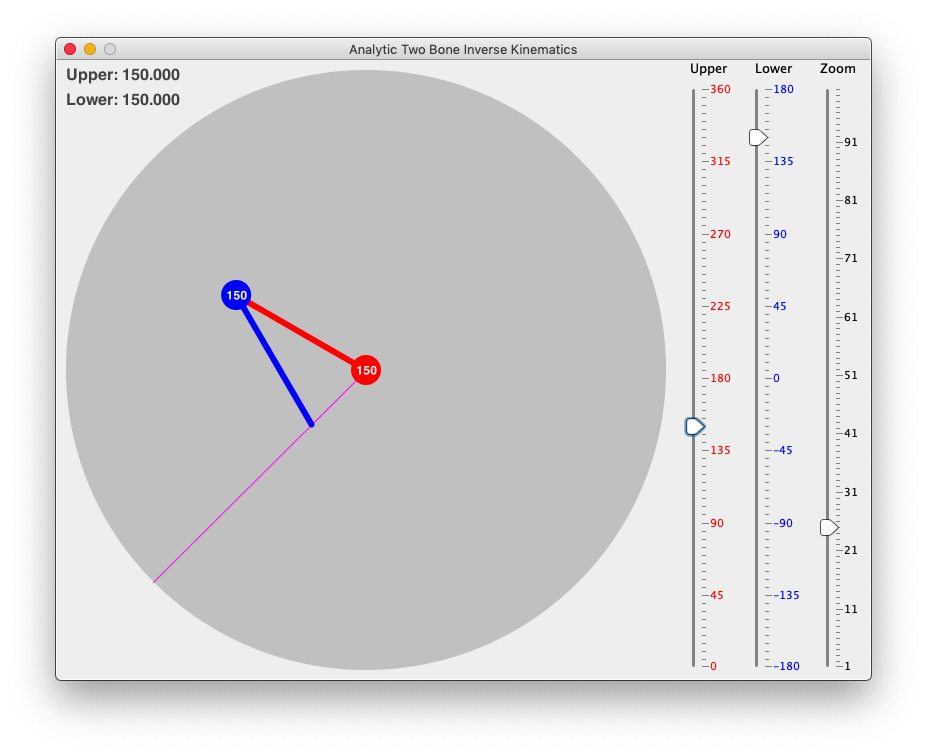
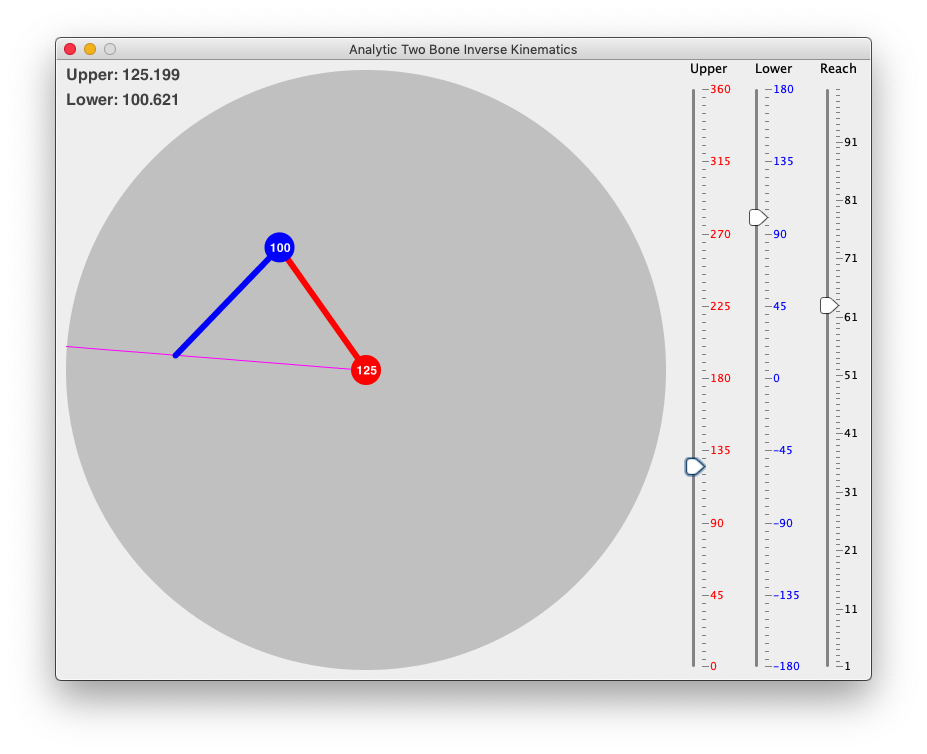
Rename Zoom to Reach

diff --git a/src/ComputeIK.java b/src/ComputeIK.java
@@ -22,8 +22,8 @@ public class ComputeIK extends JPanel {
   private final Bone              upper;              // Upper arm
   private final Bone              lower;              // Lower Arm
   private final double            armLength;
-  private       JSlider           zoom;
-  private       boolean           mouseDown, zooming, noZoom;
+  private       JSlider           reach;
+  private       boolean           mouseDown, reaching, noReach;
 
   private boolean updateIk (Point2D target) {
     double targetX = target.getX();
@@ -99,7 +99,7 @@ public class ComputeIK extends JPanel {
       slider.setPaintLabels(true);
       slider.setSnapToTicks(true);
       slider.addChangeListener(ev -> {
-        if (!mouseDown && !zooming) {
+        if (!mouseDown && !reaching) {
           setAngle(slider.getValue());
           updateZoomSlider();
           view.repaint();
@@ -180,14 +180,14 @@ public class ComputeIK extends JPanel {
   }
 
   void updateZoomSlider () {
-    noZoom = true;
+    noReach = true;
     Point2D end = upper.getEndOffset();
     end = end.add(lower.getEndOffset());
     double value = end.magnitude();
     value /= armLength;
     value *= 100;
-    zoom.setValue((int) value);
-    noZoom = false;
+    reach.setValue((int) value);
+    noReach = false;
   }
 
   ComputeIK () {
@@ -225,24 +225,24 @@ public class ComputeIK extends JPanel {
   }
 
   JSlider getZoomSlider () {
-    zoom = new JSlider(JSlider.VERTICAL, 1, 100, 50);
-    zoom.setForeground(Color.BLACK);
-    zoom.setMajorTickSpacing(10);
-    zoom.setMinorTickSpacing(1);
-    zoom.setPaintTicks(true);
-    zoom.setPaintLabels(true);
-    zoom.addChangeListener(ev -> {
-      if (!mouseDown && !noZoom) {
-        zooming = true;
-        int value = zoom.getValue();
+    reach = new JSlider(JSlider.VERTICAL, 1, 100, 50);
+    reach.setForeground(Color.BLACK);
+    reach.setMajorTickSpacing(10);
+    reach.setMinorTickSpacing(1);
+    reach.setPaintTicks(true);
+    reach.setPaintLabels(true);
+    reach.addChangeListener(ev -> {
+      if (!mouseDown && !noReach) {
+        reaching = true;
+        int value = reach.getValue();
         Point2D end = getEndPoint();
         end = end.multiply(((double) value / 100d));
         updateIk(end);
-        zooming = false;
+        reaching = false;
         repaint();
       }
     });
-    return zoom;
+    return reach;
   }
 
   private static JPanel addLegend (JComponent comp, String legend) {
@@ -261,7 +261,7 @@ public class ComputeIK extends JPanel {
     JSlider j2 = view.lower.getSlider(view, -180, 180);
     controls.add(addLegend(j1, "Upper"));
     controls.add(addLegend(j2, "Lower"));
-    controls.add(addLegend(view.getZoomSlider(), "Zoom"));
+    controls.add(addLegend(view.getZoomSlider(), "Reach"));
     view.updateZoomSlider();
     frame.add(controls, BorderLayout.EAST);
     frame.pack();
